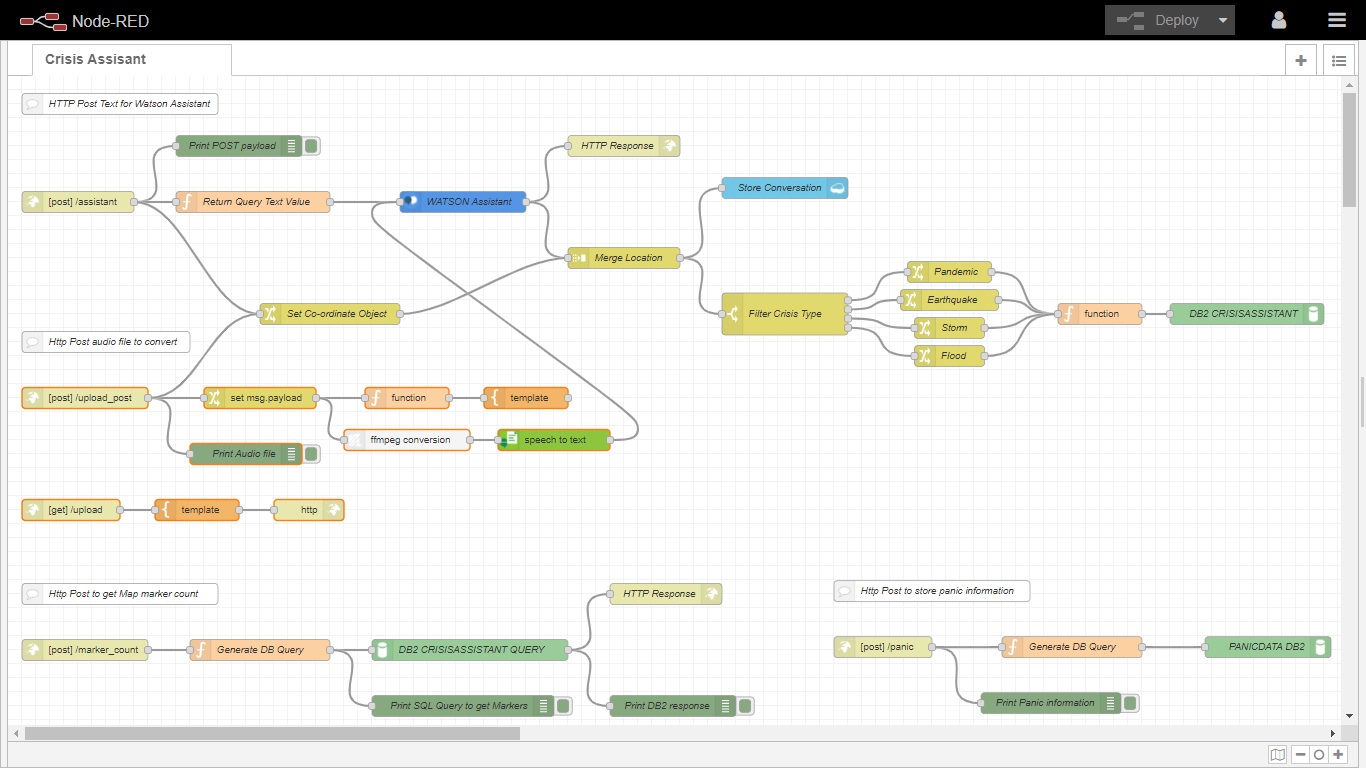
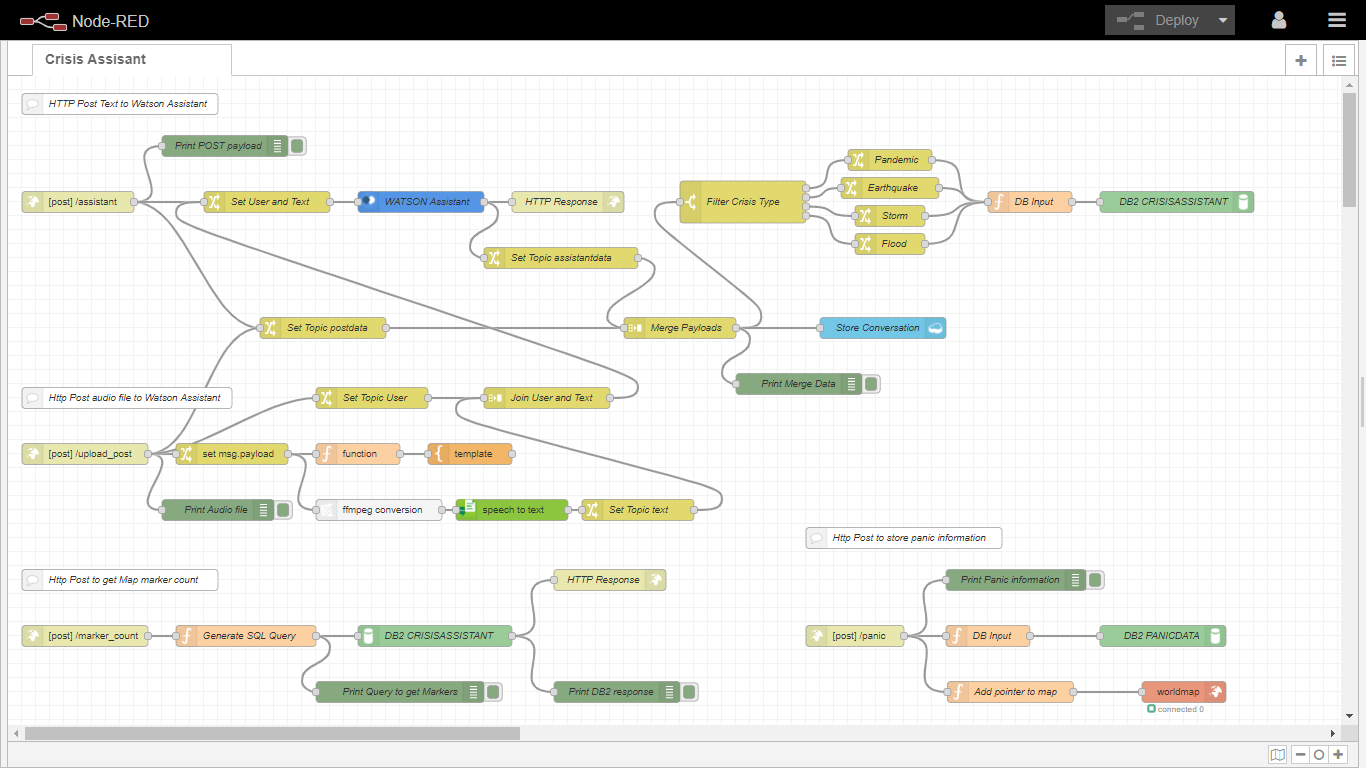
Updates

diff --git a/README.md b/README.md
@@ -34,7 +34,9 @@ Another common crisis scenario, an old lady is living alone. She has started fev
 Our idea is to put below features in Crisis Assistance:
 
 Ø  Chat Communication feature
+
 Ø  Voice communication feature in Local Language
+
 Ø  Implement “Alert” feature specific to a place based on Weather Forecast or Pandemic situation. This Alert will provide all advisory information to fight against crisis in well advance.
 
 ## Application Features
@@ -50,10 +52,13 @@ Our idea is to put below features in Crisis Assistance:
 
 ![Crisis Assistance app](https://github.com/dasxran/CallForCode2020_CrisisAssistance/blob/master/images/architecture.png)
 
-1. The user navigates to the site and uploads a video file.
+1. The user communicates with Crisis Assistance BOT via mobile app through Text/Audio.
 2. Watson Speech to Text processes the audio and extracts the text.
-3. Watson Translation (optionally) can translate the text to the desired language.
-4. The app stores the translated text as a document within Object Storage.
+3. Mobile app (optionally) can transfer the request to Google Cloud search to get better response.
+4. Could service can identify crisis type and store conversation originated location.
+5. Mobile App Map view plots alert circles based on identified crisis communication count.
+6. Bot suggests some Web pages for the solution in current Crisis.
+7. An web base worldmap (for Authorized people only) plots all the PANIC alerts with location/address.
 
 ### The Node-red Diagram
 
@@ -91,11 +96,11 @@ npm start
 
 ## Live demo
 
-You can find a running app to test at [Play Store](https://play.google.com/store/apps/details?id=org.codehunter.ca_app).
+You can find a running app to test at [Play Store](https://play.google.com/store/apps/details?id=org.codehunter.ca_bot).
 
 Node-red app can be found [here](https://node-red-crisis-assistant.eu-gb.mybluemix.net/red/).
 
-[![Get it on Play Store](https://lh3.googleusercontent.com/cjsqrWQKJQp9RFO7-hJ9AfpKzbUb_Y84vXfjlP0iRHBvladwAfXih984olktDhPnFqyZ0nu9A5jvFwOEQPXzv7hr3ce3QVsLN8kQ2Ao=s0)](https://play.google.com/store/apps/details?id=org.codehunter.ca_app)
+[![Get it on Play Store](https://lh3.googleusercontent.com/cjsqrWQKJQp9RFO7-hJ9AfpKzbUb_Y84vXfjlP0iRHBvladwAfXih984olktDhPnFqyZ0nu9A5jvFwOEQPXzv7hr3ce3QVsLN8kQ2Ao=s0)](https://play.google.com/store/apps/details?id=org.codehunter.ca_bot)
 
 ## Built with
 
